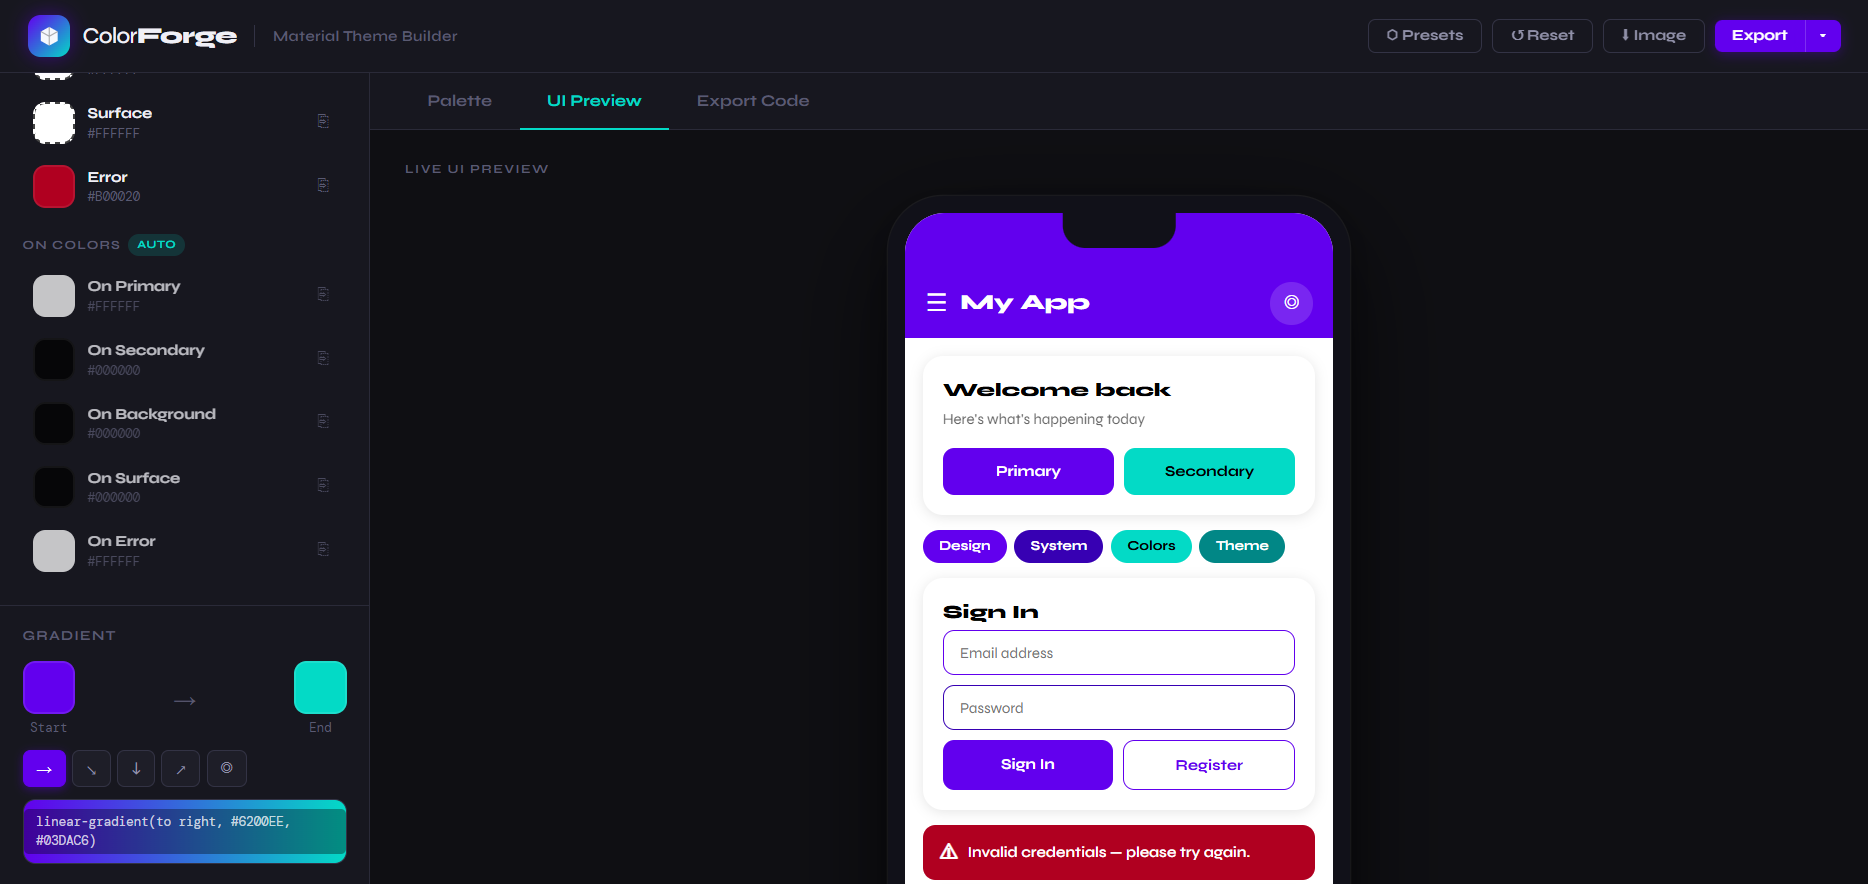
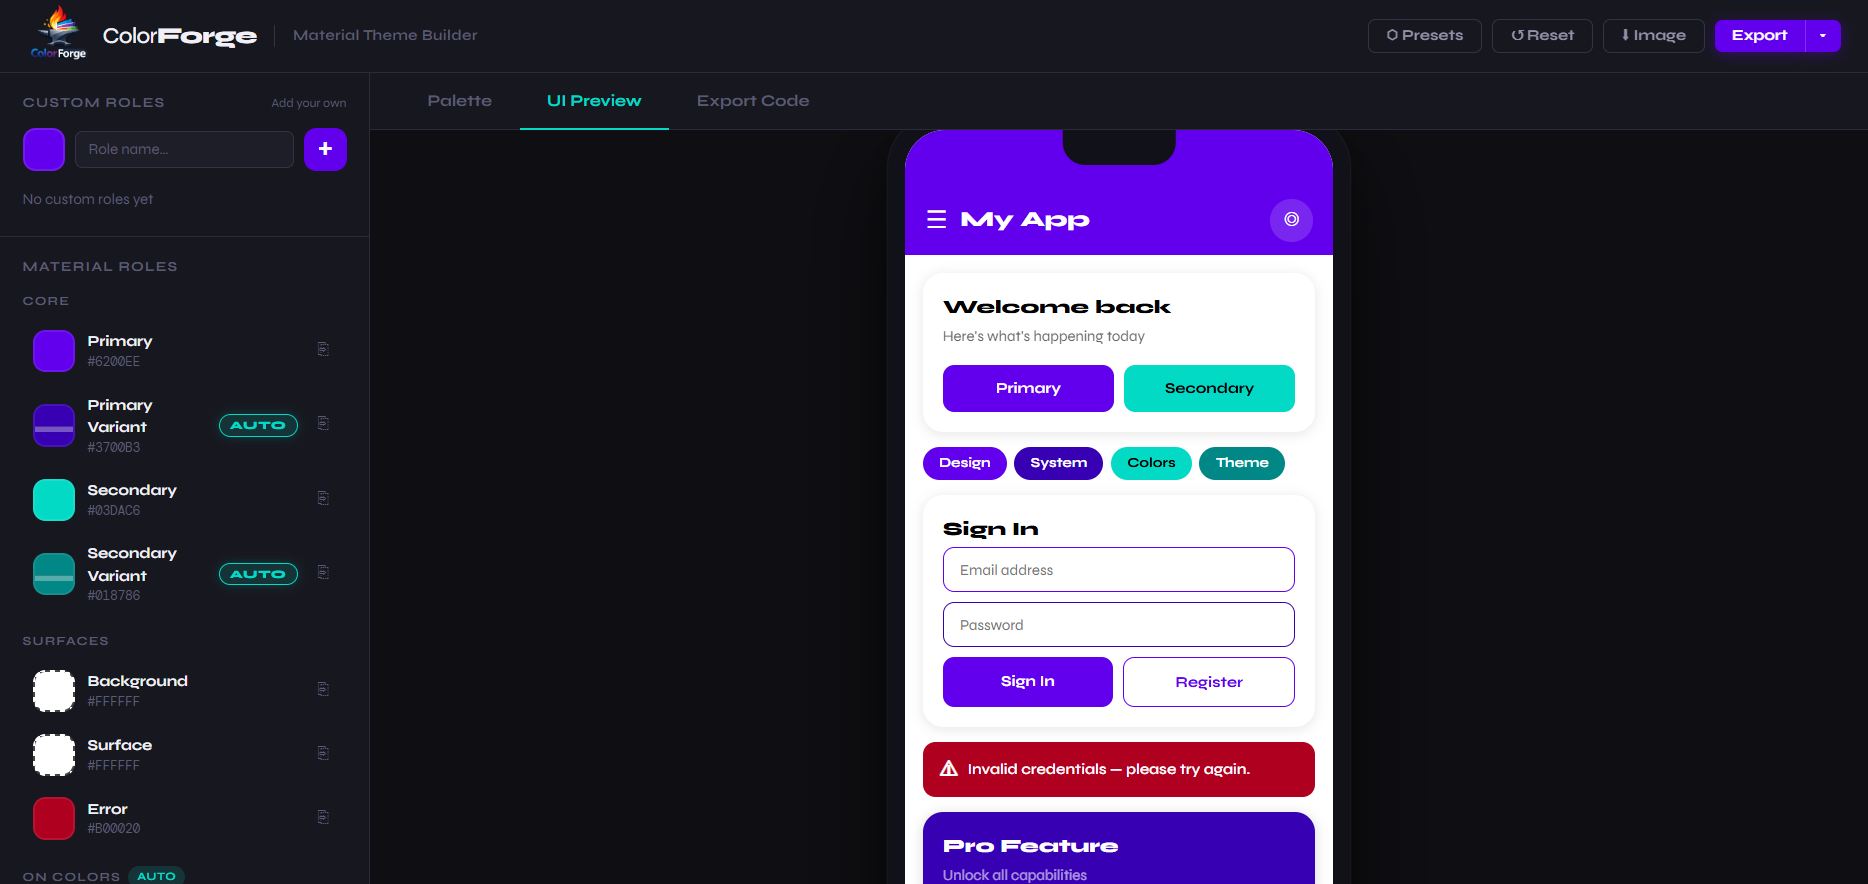
added option to name your designs

diff --git a/style.css b/style.css
@@ -95,6 +95,61 @@ body {
 .header-rule { width: 1px; height: 18px; background: var(--border2); }
 .header-tag  { font-size: 12px; color: var(--text-3); font-weight: 600; letter-spacing: .3px; }
 
+.title-wrap {
+  position: relative;
+  display: flex;
+  align-items: center;
+  gap: 6px;
+}
+
+.header-tag-input {
+  font-family: var(--font);
+  font-size: 12px;
+  font-weight: 600;
+  letter-spacing: .3px;
+  color: var(--text-3);
+  background: transparent;
+  border: none;
+  outline: none;
+  border-bottom: 1px dashed transparent;
+  transition: border-color .2s, color .2s;
+  width: 190px;
+  caret-color: var(--teal);
+}
+.header-tag-input:hover {
+  border-bottom-color: var(--border2);
+  color: var(--text-2);
+}
+.header-tag-input:focus {
+  color: var(--text);
+  border-bottom-color: var(--teal);
+}
+
+.title-hint {
+  display: flex;
+  align-items: center;
+  gap: 4px;
+  font-size: 10px;
+  font-weight: 700;
+  letter-spacing: .3px;
+  color: var(--text-3);
+  white-space: nowrap;
+  pointer-events: none;
+  opacity: 1;
+  transition: opacity .4s;
+}
+.title-hint::before {
+  content: '✎';
+  font-size: 11px;
+  color: var(--teal);
+  opacity: .7;
+}
+.title-hint.hidden {
+  opacity: 0;
+  width: 0;
+  overflow: hidden;
+}
+
 /* Header buttons */
 .hbtn {
   display: inline-flex; align-items: center; gap: 5px;

diff --git a/app.js b/app.js
@@ -522,9 +522,11 @@ function exportImage() {
   ctx.fillStyle = '#0f0f13';
   ctx.fillRect(0, 0, canvas.width, canvas.height);
 
+  const titleEl   = document.getElementById('appTitle');
+  const titleText = (titleEl ? titleEl.value.trim() : '') || 'Material Theme Builder';
   ctx.fillStyle = '#f0f0f6';
   ctx.font = 'bold 20px "Syne", sans-serif';
-  ctx.fillText('Color Forge — Material Theme', PAD, 38);
+  ctx.fillText('Color Forge — ' + titleText, PAD, 38);
 
   all.forEach(({ hex, label }, i) => {
     const col = i % COLS;
@@ -863,6 +865,22 @@ document.addEventListener('DOMContentLoaded', () => {
       }
       renderAll();
     });
+  });
+
+  // Title rename hint — shows every load, hides once user actually changes the value
+  const titleInput = document.getElementById('appTitle');
+  const titleHint  = document.getElementById('titleHint');
+  localStorage.removeItem('cf-title-seen'); // clear any stuck state
+
+  titleInput.addEventListener('input', () => {
+    titleHint.classList.add('hidden');
+  });
+  titleInput.addEventListener('blur', () => {
+    if (titleInput.value.trim() !== 'Material Theme Builder') {
+      titleHint.classList.add('hidden');
+    } else {
+      titleHint.classList.remove('hidden');
+    }
   });
 
   // Initial render

diff --git a/index.html b/index.html
@@ -17,12 +17,15 @@
     <div class="header-left">
       <div class="logo">
         <div class="logo-mark1">
-          <img src="assets/icon.png" alt="Color Forge Logo" width="75dp" height="75dp"/>
+          <img src="assets/icon.png" alt="Color Forge Logo" width="50dp" height="50dp"/>
         </div>
         <span class="logo-text">Color<strong>Forge</strong></span>
       </div>
       <div class="header-rule"></div>
-      <span class="header-tag">Material Theme Builder</span>
+      <div class="title-wrap">
+        <input type="text" id="appTitle" class="header-tag-input" value="Material Theme Builder" spellcheck="false" />
+        <span class="title-hint" id="titleHint">rename</span>
+      </div>
     </div>
     <div class="header-right">
       <button class="hbtn hbtn-ghost" id="btnPreset">⬡ Presets</button>

diff --git a/README.md b/README.md
@@ -1,6 +1,6 @@
 <div align="center">
 
-# 🎨 ColorForge
+<img src="assets/icon.png" alt="Color Forge logo" width="400">
 
 ### **Material Theme Builder — for the Web**
 *Forge raw colors into complete, production-ready UI systems*
